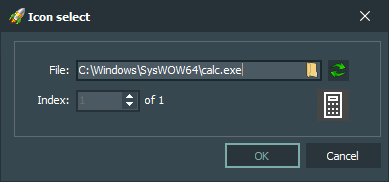
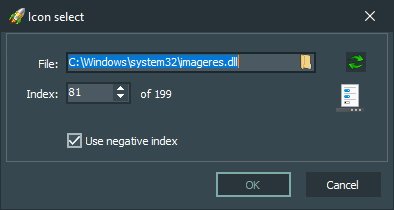
update for 2.9 release

diff --git a/ru/changelog.html b/ru/changelog.html
@@ -23,6 +23,14 @@
     <h1>Список изменений</h1>
     <table>
       <tr><td colspan="4"><hr /></td></tr>
+      <tr><th align="left">Версия</th><th align="left">2.9</th><th align="left">Релиз</th></th><th align="right">26.08.2023</th></tr>
+      <tr><td colspan="4">&nbsp;</td></tr>
+      <tr><td align="right" valign="top"><img src="../data/image/added.png" width="16" height="16" alt="Добавлено" /></td><td colspan="3" align="left">Новая опция "Показывать на панели задач".</td></tr>
+      <tr><td align="right" valign="top"><img src="../data/image/added.png" width="16" height="16" alt="Добавлено" /></td><td colspan="3" align="left">Новая опция "Использовать отрицательный индекс" в диалоге выбора иконки.</td></tr>
+      <tr><td align="right" valign="top"><img src="../data/image/updated.png" width="16" height="16" alt="Обновлено" /></td><td colspan="3" align="left">Обновлен алгоритм получения иконок.</td></tr>
+      <tr><td align="right" valign="top"><img src="../data/image/fixed.png" width="16" height="16" alt="Исправлено" /></td><td colspan="3" align="left">Различные незначительные исправления.</td></tr>
+      <tr><td colspan="4">&nbsp;</td></tr>
+      <tr><td colspan="4"><hr /></td></tr>
       <tr><th align="left">Версия</th><th align="left">2.8</th><th align="left">Релиз</th></th><th align="right">16.07.2023</th></tr>
       <tr><td colspan="4">&nbsp;</td></tr>
       <tr><td align="right" valign="top"><img src="../data/image/added.png" width="16" height="16" alt="Добавлено" /></td><td colspan="3" align="left">Новый пункт меню вкладки "Добавить (новую вкладку)" (Ctrl + N).</td></tr>

diff --git a/en/changelog.html b/en/changelog.html
@@ -23,6 +23,14 @@
     <h1>Changelog</h1>
     <table>
       <tr><td colspan="4"><hr /></td></tr>
+      <tr><th align="left">Version</th><th align="left">2.9</th><th align="left">Release</th></th><th align="right">2023-08-26</th></tr>
+      <tr><td colspan="4">&nbsp;</td></tr>
+      <tr><td align="right" valign="top"><img src="../data/image/added.png" width="16" height="16" alt="Added" /></td><td colspan="3" align="left">New option "Show on taskbar".</td></tr>
+      <tr><td align="right" valign="top"><img src="../data/image/added.png" width="16" height="16" alt="Added" /></td><td colspan="3" align="left">New "Use negative index" option in the icon selection dialog.</td></tr>
+      <tr><td align="right" valign="top"><img src="../data/image/updated.png" width="16" height="16" alt="Updated" /></td><td colspan="3" align="left">The algorithm for extracting icons has been updated.</td></tr>
+      <tr><td align="right" valign="top"><img src="../data/image/fixed.png" width="16" height="16" alt="Fixed" /></td><td colspan="3" align="left">Various minor fixes.</td></tr>
+      <tr><td colspan="4">&nbsp;</td></tr>
+      <tr><td colspan="4"><hr /></td></tr>
       <tr><th align="left">Version</th><th align="left">2.8</th><th align="left">Release</th></th><th align="right">2023-07-16</th></tr>
       <tr><td colspan="4">&nbsp;</td></tr>
       <tr><td align="right" valign="top"><img src="../data/image/added.png" width="16" height="16" alt="Added" /></td><td colspan="3" align="left">New tab menu item "Add (new tab)" (Ctrl + N).</td></tr>

diff --git a/ru/doc_btnprops_iconsel.html b/ru/doc_btnprops_iconsel.html
@@ -8,7 +8,7 @@
   </head>
   <body class="page">
     <p>
-      <img src="../data/image/ru/btnprops_iconsel.png" width="389" height="182" alt="Диалог выбора иконки" />
+      <img src="../data/image/ru/btnprops_iconsel.png" width="394" height="210" alt="Диалог выбора иконки" />
     </p>
     <p>
         <strong>Элементы интерфейса:</strong>
@@ -21,6 +21,10 @@
       <li>
         <strong>Индекс</strong><br />
         Содержит индекс иконки в файле, указанном в параметре "Файл".<br /><br />
+      </li>
+      <li>
+        <strong>Использовать отрицательный индекс</strong><br />
+        Используется отрицательное значение индекса иконки в файле, если опция включена.<br /><br />
       </li>
       <li>
         <strong>Кнопка &laquo;OK&raquo;</strong><br />

diff --git a/ru/doc_settingstab_general.html b/ru/doc_settingstab_general.html
@@ -8,7 +8,7 @@
   </head>
   <body class="page">
     <p>
-      <img src="../data/image/ru/settings1.png" width="450" height="469" alt="Окно настроек - Вкладка &laquo;Общие&raquo;" />
+      <img src="../data/image/ru/settings1.png" width="464" height="470" alt="Окно настроек - Вкладка &laquo;Общие&raquo;" />
     </p>
     <p>
         <strong>Общие настройки:</strong>
@@ -21,6 +21,10 @@
       <li>
         <strong>Поверх всех окон</strong><br />
         Главное окно приложения всегда будет находиться поверх всех других окон.<br /><br />
+      </li>
+      <li>
+        <strong>Показывать на панели задач</strong><br />
+        Показывать приложение на панели задач.<br /><br />
       </li>
       <li>
         <strong>Скрывать при старте</strong><br />

diff --git a/en/doc_btnprops_iconsel.html b/en/doc_btnprops_iconsel.html
@@ -8,7 +8,7 @@
   </head>
   <body class="page">
     <p>
-      <img src="../data/image/en/btnprops_iconsel.png" width="389" height="182" alt="Icon select dialog" />
+      <img src="../data/image/en/btnprops_iconsel.png" width="394" height="210" alt="Icon select dialog" />
     </p>
     <p>
         <strong>Interface elements:</strong>
@@ -21,6 +21,10 @@
       <li>
         <strong>Index</strong><br />
         Contains the index number of the icon in the file specified in the "File" parameter.<br /><br />
+      </li>
+      <li>
+        <strong>Use negative index</strong><br />
+        The negative index value of the icon in the file is used if the option is enabled.<br /><br />
       </li>
       <li>
         <strong>&laquo;OK&raquo; button</strong><br />

diff --git a/en/doc_settingstab_general.html b/en/doc_settingstab_general.html
@@ -8,7 +8,7 @@
   </head>
   <body class="page">
     <p>
-      <img src="../data/image/en/settings1.png" width="450" height="469" alt="Settings window - Tab General" />
+      <img src="../data/image/en/settings1.png" width="464" height="470" alt="Settings window - Tab General" />
     </p>
     <p>
         <strong>General options:</strong>
@@ -21,6 +21,10 @@
       <li>
         <strong>Always on top</strong><br />
         The main window of the application will always be located on top of all other windows.<br /><br />
+      </li>
+      <li>
+        <strong>Show on taskbar</strong><br />
+        Show the application on the taskbar.<br /><br />
       </li>
       <li>
         <strong>Start hidden</strong><br />

diff --git a/index.ru.html b/index.ru.html
@@ -67,12 +67,7 @@
                 </ul>
               </li>
               <li><a href="ru/doc_renametab.html" target="iframe_main">Окно переименования вкладки</a></li>
-            </ul>
-          </li>
-          <li><strong>Часто задаваемые вопросы</strong>
-            <ul>
               <li><a href="ru/hotkeys.html" target="iframe_main">Горячие клавиши</a></li>
-              <li><a href="ru/doyouknow.html" target="iframe_main">Знаете ли Вы?</a></li>
             </ul>
           </li>
         </ul> 

diff --git a/index.html b/index.html
@@ -67,12 +67,7 @@
                 </ul>
               </li>
               <li><a href="en/doc_renametab.html" target="iframe_main">Tab rename window</a></li>
-            </ul>
-          </li>
-          <li><strong>Frequently Asked Questions</strong>
-            <ul>
               <li><a href="en/hotkeys.html" target="iframe_main">Hotkeys</a></li>
-              <li><a href="en/doyouknow.html" target="iframe_main">Do You know?</a></li>
             </ul>
           </li>
         </ul> 

diff --git a/ru/doc_settings.html b/ru/doc_settings.html
@@ -8,7 +8,7 @@
   </head>
   <body class="page">
     <p>
-      <img src="../data/image/ru/settings.png" width="450" height="469" alt="Окно настроек" />
+      <img src="../data/image/ru/settings.png" width="464" height="470" alt="Окно настроек" />
     </p>
     <p>
         <strong>Элементы интерфейса:</strong>

diff --git a/en/doc_settings.html b/en/doc_settings.html
@@ -8,7 +8,7 @@
   </head>
   <body class="page">
     <p>
-      <img src="../data/image/en/settings.png" width="450" height="469" alt="Settings window" />
+      <img src="../data/image/en/settings.png" width="464" height="470" alt="Settings window" />
     </p>
     <p>
         <strong>Interface elements:</strong>
